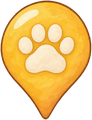
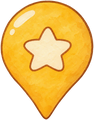
The walk pin carries a star instead of a paw print, as friends are not all animals
What changed:
- assets/art/ambient/walk-pin.png and its WebP: the star pin, from four marks drawn without a paw
  print (star pin, heart pin, downward chevron, little flag); the owner chose the star pin.
- GENERATION.md, the guide line in four languages and the design follow-up say so.

Why:
- Feedback: friends are people and creatures as well as animals, so a paw print does not fit all.

How it was checked:
- The four marks on the lawn at 1x and 2x, shown to the owner; art-webp --check is current;
  tests/walk-here.test.mjs passes.

diff --git a/assets/sources/walk-pin-2026-11-27/pack.py b/assets/sources/walk-pin-2026-11-27/pack.py
@@ -1,4 +1,4 @@
-# Packs the accepted walk pin (pin-a.png, Codex) into assets/art/ambient/walk-pin.png: the faint
+# Packs the accepted walk pin (pin-star.png, Codex) into assets/art/ambient/walk-pin.png: the faint
 # reddish fringe the tool leaves (alpha under 50) cleared, cropped to the drawing with a small
 # margin, and scaled to 120 px high, enough for the pin at twice its size (garden.css .walk-pin).
 # Run with Pillow from the repository root or this folder.
@@ -10,7 +10,7 @@ HERE = Path(__file__).resolve().parent
 OUT = HERE.parents[2] / "assets/art/ambient/walk-pin.png"
 HEIGHT, MARGIN = 120, 4
 
-im = Image.open(HERE / "pin-a.png").convert("RGBA")
+im = Image.open(HERE / "pin-star.png").convert("RGBA")
 alpha = im.getchannel("A").point(lambda a: 0 if a < 50 else a)
 im.putalpha(alpha)
 left, top, right, bottom = alpha.getbbox()

diff --git a/assets/art/ambient/GENERATION.md b/assets/art/ambient/GENERATION.md
@@ -70,8 +70,8 @@ Create a premium cozy woodland game sprite reference atlas, transparent backgrou
 ## The walk pin (2026-11-27)
 
 - `walk-pin.png` points at the spot a press on the ground sends a friend to (yard/walk-here.js, garden.css `.walk-pin`). It replaced the ring of bent grass of 2026-11-26, which read as a target painted on the ground.
-- Made with Codex's built-in image tool. The references were `ui/heart.png` and `ui/book-track.png`, so the outline, texture and paw match the app's icons.
-- Two candidates were made: a round pin and a downward arrow. The pin reads more clearly at its small size.
+- Made with Codex's built-in image tool, with `ui/heart.png` as the reference, so the outline and texture match the app's icons.
+- A paw print was tried first and dropped: friends are people and creatures as well as animals. Of four marks without one (a pin with a star, a pin with a heart, a downward chevron, a little flag), the owner chose the star pin.
 - Cleaning (`assets/sources/walk-pin-2026-11-27/pack.py`): alpha under 50 cleared (the tool's faint reddish fringe), cropped to the drawing with a 4 px margin, scaled to 120 px high.
-- The untouched output is `assets/sources/walk-pin-2026-11-27/pin-a.png`.
-- Prompt: "a single small game UI marker for a cozy illustrated desktop pet game, on a truly transparent background (real alpha), 1024x1024. It is a plump rounded map pin seen from the front, pointing straight DOWN to a spot on the ground: a round head on top tapering to a soft point at the bottom, in warm honey yellow with a cream highlight on its upper left, soft painted shading and a thin warm dark brown outline, and a small cream-white paw print in the middle of the round head. Same soft painted storybook style, outline and texture as the attached heart and paw print icons. Centered, filling about 70% of the height, nothing else. No shadow, no ground, no text, no frame, no sparkles, no checkerboard, no white backdrop."
+- The untouched output is `assets/sources/walk-pin-2026-11-27/pin-star.png`.
+- Prompt: "A plump rounded map pin pointing straight DOWN to a spot, with a small cream five-pointed star in its round head. a single small game UI marker for a cozy illustrated desktop pet game, on a truly transparent background (real alpha), 1024x1024, same soft painted storybook style, thin warm dark brown outline and texture as the attached heart icon, warm honey yellow with a cream highlight on its upper left. It must suit any kind of character (people, animals, creatures), so no paw prints, no faces, no animals. Centered, filling about 70% of the height, nothing else. No shadow, no ground, no text, no frame, no checkerboard, no white backdrop."

diff --git a/website/ko/guide/first-friend.md b/website/ko/guide/first-friend.md
@@ -131,7 +131,7 @@ Miso는 책 한 권과 잠깐의 여유를 늘 곁에 두는 다정한 수달이
 |---|---|
 | 쓰다듬기 | 친구를 한 번 눌러요. 친구가 뛰며 하트를 보여요 |
 | 옮기기 | 친구를 끌어서 놓아요. 놀이터의 위치는 기억돼요 |
-| 걸어가게 하기 | 빈 땅을 눌러요. 고른 친구가, 고른 친구가 없으면 가장 가까운 친구가 걸어가요. 도착할 때까지 발바닥 핀이 그 자리 위에서 통통 떠 있어요 |
+| 걸어가게 하기 | 빈 땅을 눌러요. 고른 친구가, 고른 친구가 없으면 가장 가까운 친구가 걸어가요. 도착할 때까지 별 핀이 그 자리 위에서 통통 떠 있어요 |
 | 대화하기 | 친구에게 마우스를 올리면 아래에 이름표가 나타나요. 이름표를 눌러요. 이름표에 마우스를 올리면 말풍선 표시와 함께 **Clover에게 말 걸기** 같은 안내가 떠요. **친구** 화면이 그 친구로 열리고, 창 크기에 맞춰 같은 창 안에서 이어져요. 처음 초대한 친구가 대화하는 방법을 한 번 알려 줘요 |
 | 친구 메뉴 | 친구를 오른쪽 클릭하면 이름과 친밀도 하트 아래에 **말 걸기**, **놀기**, **땅파기 부탁**, **바탕화면에 보이기**, **설정**이 떠요 |
 | 간식 놓기 | **놀기 → 정원 → 소풍 간식**을 누르고 놓을 곳을 눌러요. 키보드로는 한 번 더 누르면 고른 친구 옆에 놓여요. 돗자리에 도시락과 과일, 간식이 차려지면 친구들이 빙 둘러 모여요. 모두 오지 않으면 15초 뒤에, 모두 먹으면 마지막 친구가 먹고 6초 뒤에 정리돼요 |

diff --git a/website/guide/first-friend.md b/website/guide/first-friend.md
@@ -131,7 +131,7 @@ Right-click the friend in the yard and choose **Edit**. In the **Friends** panel
 |---|---|
 | Pat | Click a friend once. It jumps and shows a heart |
 | Move | Drag a friend and drop it. Its place in the yard is remembered |
-| Walk somewhere | Click open ground. The selected friend walks there, or the nearest one when none is selected. A small paw pin bobs over the spot until it arrives |
+| Walk somewhere | Click open ground. The selected friend walks there, or the nearest one when none is selected. A small star pin bobs over the spot until it arrives |
 | Chat | Point at the friend and click the name tag that shows under it. Under the pointer the tag shows a speech mark, and its tooltip says **Talk to** and the friend's name. The **Friends** panel opens on that friend, and the conversation fits inside the window at every size. The first friend you invite explains how to chat |
 | Friend menu | Right-click a friend. Its name and closeness hearts sit above **Talk to**, **Play with**, **Ask … to dig**, **Show on desktop** and **Edit** |
 | Put down a treat | **Play → Garden → Picnic**, then choose a spot. From the keyboard, press it again to set it beside the selected friend. A picnic blanket with sandwiches, fruit and snacks appears, and friends gather around it. It clears after 15 seconds if not everyone arrives, or six seconds after the last friend eats |

diff --git a/docs/design/2026-11-26-natural-walking.md b/docs/design/2026-11-26-natural-walking.md
@@ -187,4 +187,4 @@ Friends move like characters in a game: legs pass each other and arms swing agai
 
 ## Follow-up (2026-11-27)
 
-- The ring of bent grass read as a target painted on the ground, and it was large. The mark is now a small paw pin over the spot (`ambient/walk-pin.png`), dropping in and bobbing, with only a small soft shadow on the ground (garden.css `.walk-mark`, `.walk-pin`). It still scales by the friend's size and depth.
+- The ring of bent grass read as a target painted on the ground, and it was large. The mark is now a small star pin over the spot (a paw print was dropped: friends are not all animals) (`ambient/walk-pin.png`), dropping in and bobbing, with only a small soft shadow on the ground (garden.css `.walk-mark`, `.walk-pin`). It still scales by the friend's size and depth.
